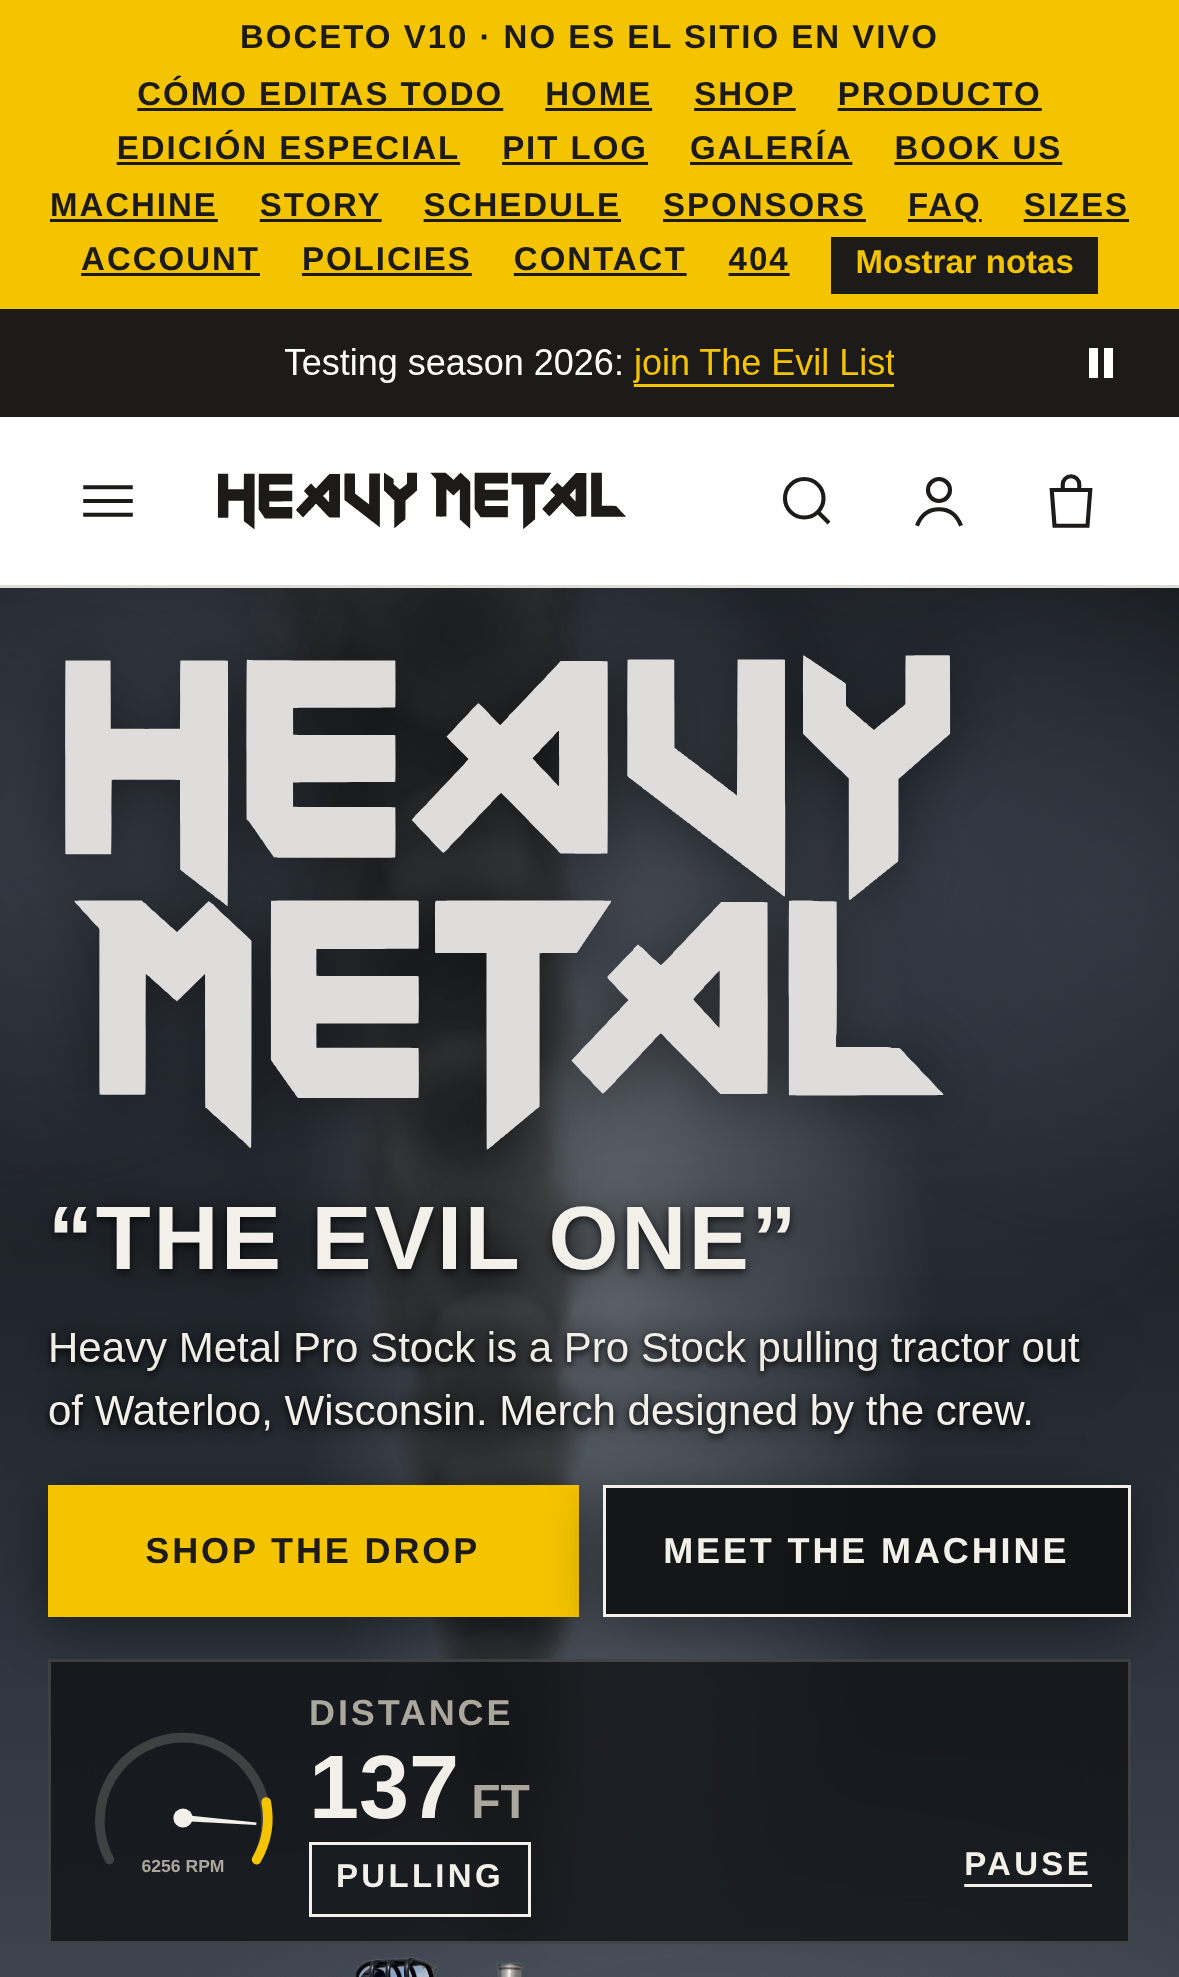
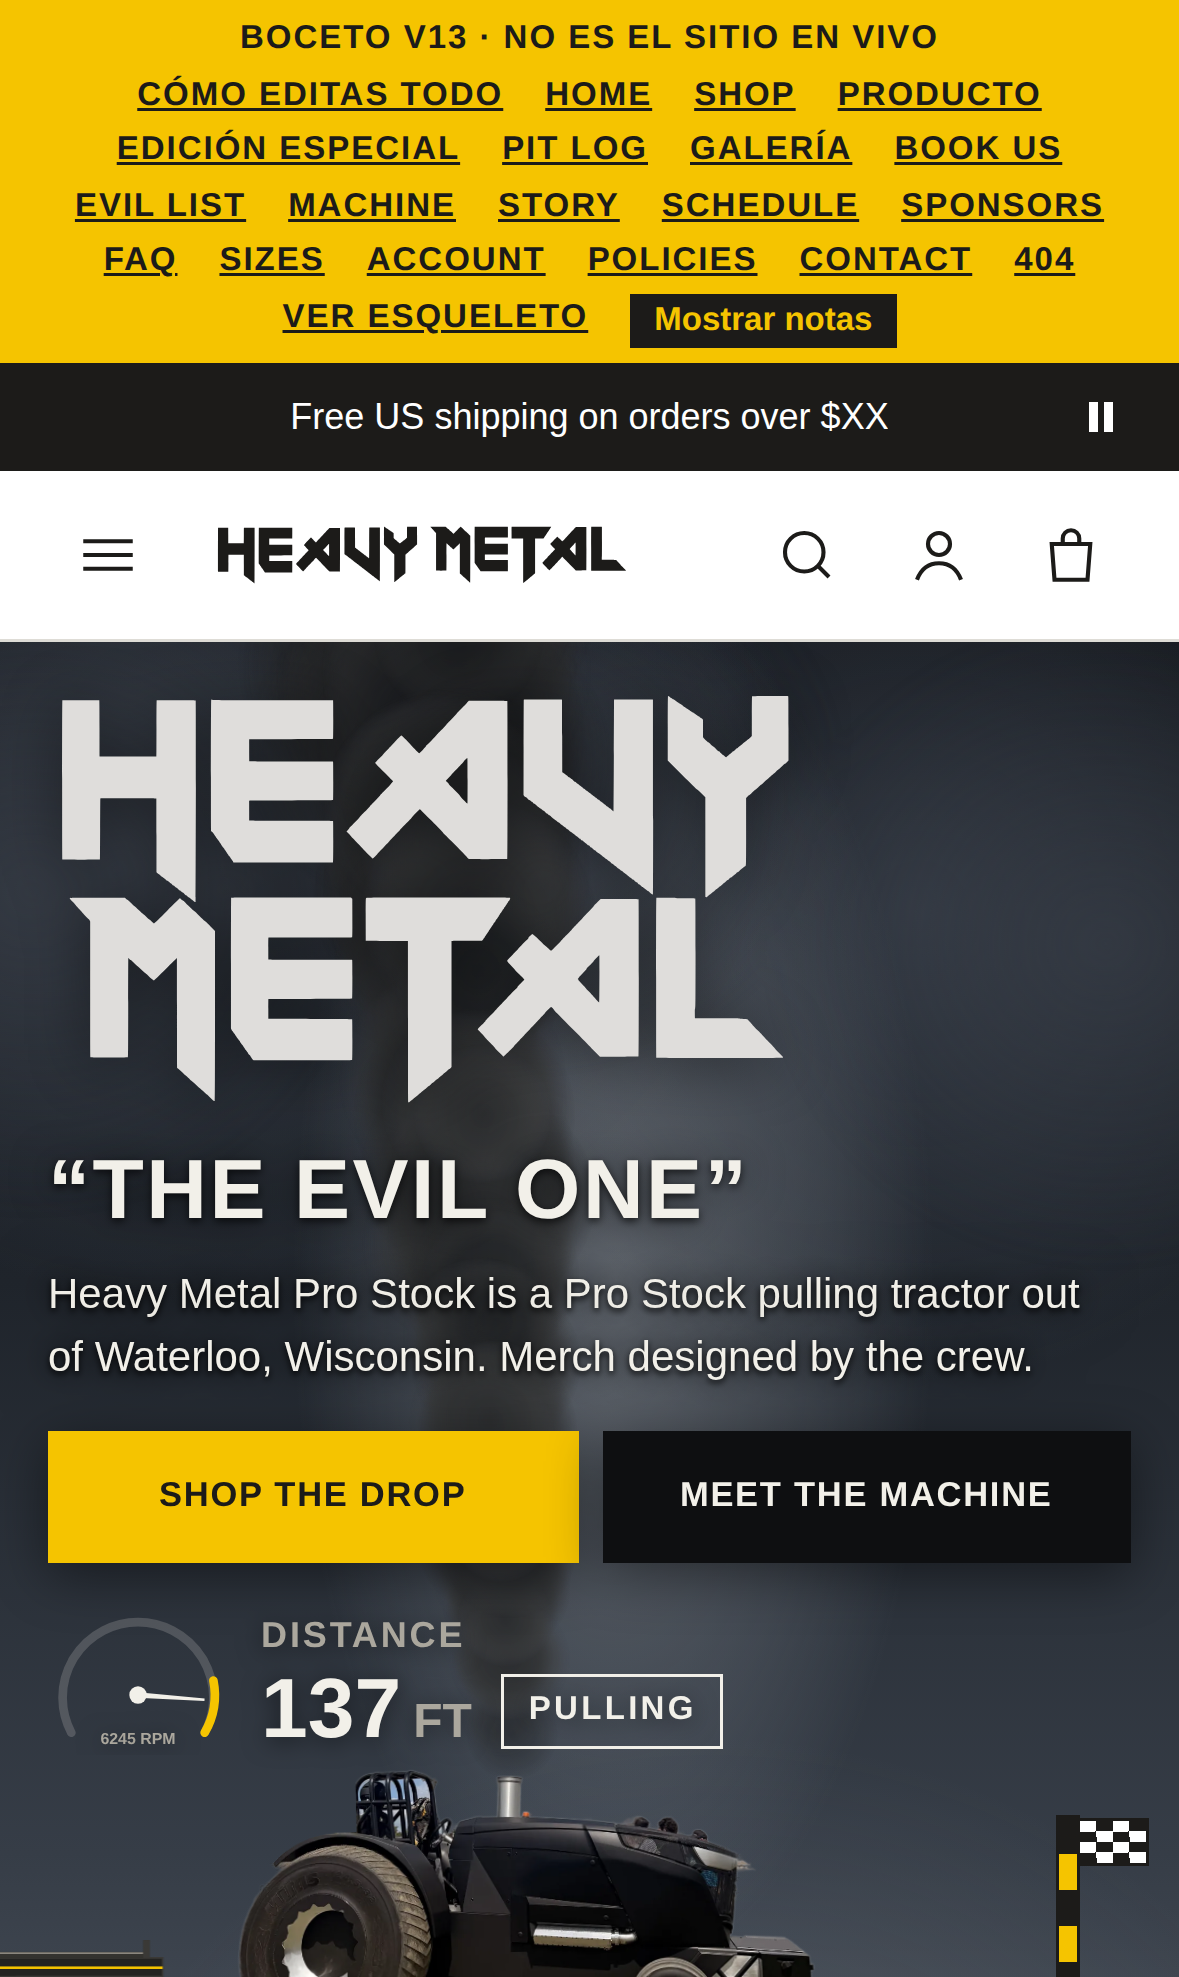
Heavy Metal v13: revisión completa en celular, The Evil List, capturas; publicado
Claude-Session: https://claude.ai/code/session_01E8Lk6WyCwTFU7gWzhEJtm8

diff --git a/heavy-metal/boceto-v13/hm.js b/heavy-metal/boceto-v13/hm.js
@@ -202,7 +202,7 @@
       '</div>' +
       '<div class="scrim" id="scrim" hidden></div>' +
       '<div class="search" id="search" hidden role="dialog" aria-modal="true" aria-label="Search">' +
-        '<div class="wrap"><form class="search__bar" action="search.html" role="search"><span aria-hidden="true">' + I.search + '</span><label class="vh" for="q">Search the store</label><input id="q" name="q" type="search" placeholder="Search tees, hoodies, the machine..." autocomplete="off"><button class="icon-btn" type="button" id="search-close" aria-label="Close search">' + I.close + '</button></form>' +
+        '<div class="wrap"><form class="search__bar" action="search.html" role="search"><span aria-hidden="true">' + I.search + '</span><label class="vh" for="q">Search the store</label><input id="q" name="q" type="search" placeholder="Search tees, hoodies, caps..." autocomplete="off"><button class="icon-btn" type="button" id="search-close" aria-label="Close search">' + I.close + '</button></form>' +
         '<div class="search__body"><div><div id="recent-wrap" hidden><p class="label muted">Your recent searches</p><ul id="recent"></ul></div><p class="label muted" id="sugg-h">Trending</p><ul id="sugg"></ul><p class="label muted" style="margin-top:20px">Pages</p><ul id="search-pages"><li><a href="machine.html">The Machine</a></li><li><a href="schedule.html">Schedule</a></li><li><a href="sponsors.html">Sponsors</a></li><li><a href="faq.html">FAQ</a></li></ul><p class="note">Ya no las escribes tú: "Trending" sale solo de los productos más vendidos, mientras escriben Shopify sugiere búsquedas automáticas (Predictive Search, en inglés) y "recent searches" se guarda en el navegador de cada cliente.</p></div>' +
         '<div><p class="label muted" id="search-h">Best sellers</p><div class="search__res" id="search-res" style="margin-top:12px"></div><p id="search-all" style="margin:16px 0 0" hidden><a class="link" href="search.html">See all results</a></p></div></div></div>' +
       '</div>' +
@@ -431,6 +431,31 @@
   if (sd) sd.addEventListener('click', function (e) { e.preventDefault(); var u = new URL(location.href); if (slow) u.searchParams.delete('loading'); else u.searchParams.set('loading', 'slow'); location.href = u.toString(); });
   if (sd && slow) sd.textContent = 'Quitar esqueleto';
   if (slow) { document.documentElement.classList.add('hm-loading'); setTimeout(function () { document.documentElement.classList.remove('hm-loading'); }, 2500); }
+
+  /* tiras que se deslizan: marca el borde donde queda más contenido (CSS .hm-hs--l / --r lo desvanece).
+     No aplica a carruseles de una foto a la vez (galería de producto) ni a lo marcado con data-no-fade. */
+  function hsUpd(el) {
+    var max = el.scrollWidth - el.clientWidth;
+    el.classList.toggle('hm-hs--l', max > 2 && el.scrollLeft > 4);
+    el.classList.toggle('hm-hs--r', max > 2 && el.scrollLeft < max - 4);
+  }
+  function hsScan(full) {
+    [].forEach.call(document.querySelectorAll('main *, .drawer *'), function (el) {
+      if (el.hmHs === false || (el.hmHs === 0 && full !== true)) return;
+      if (el.hmHs) { hsUpd(el); return; }
+      var ox = getComputedStyle(el).overflowX;
+      if (ox !== 'auto' && ox !== 'scroll') { el.hmHs = 0; return; }
+      var first = el.firstElementChild;
+      if (el.closest('[data-no-fade]') || (first && first.getBoundingClientRect().width >= el.clientWidth * .9)) { el.hmHs = false; return; }
+      el.hmHs = true; hsUpd(el);
+    });
+  }
+  var hsT;
+  function hsLater() { clearTimeout(hsT); hsT = setTimeout(hsScan, 120); }
+  document.addEventListener('scroll', function (e) { var t = e.target; if (t && t.hmHs) hsUpd(t); }, true);
+  window.addEventListener('resize', function () { clearTimeout(hsT); hsT = setTimeout(function () { hsScan(true); }, 150); });
+  window.addEventListener('load', function () { hsScan(); setTimeout(hsScan, 1500); });
+  if ('MutationObserver' in window) new MutationObserver(hsLater).observe(document.body, { childList: true, subtree: true, attributes: true, attributeFilter: ['hidden', 'open'] });
 
   /* banner de cookies: se muestra una vez por visita del boceto */
   var ck = $('cookie');

diff --git a/heavy-metal/boceto-v13/hm.css b/heavy-metal/boceto-v13/hm.css
@@ -392,11 +392,44 @@ img:not(.img-skel){transition:opacity .35s}
   /* insignias de la tarjeta: una debajo de otra, sin partirse en dos renglones */
   .card__badges{flex-direction:column;align-items:flex-start;right:8px}
   .card__badges .badge{white-space:nowrap}
-  /* tiras que se deslizan: se desvanecen a la derecha para que se note que hay más */
-  .cats{-webkit-mask-image:linear-gradient(to right,#000 calc(100% - 40px),transparent);mask-image:linear-gradient(to right,#000 calc(100% - 40px),transparent);padding-right:40px}
 }
 @media (hover:none){
   /* botón de la tarjeta en celular: cabe en un renglón y, si no, se parte limpio */
-  .card__add{min-height:44px;padding:6px 8px;letter-spacing:.04em;line-height:1.2;text-align:center}
-  .card__arw{width:36px;height:44px;top:calc(50% - 22px)}
+  .card__add{display:flex;min-height:44px;padding:6px 8px;letter-spacing:.04em;line-height:1.2;text-align:center}
+  .card__arw{width:36px;height:44px;top:calc(62.5cqw - 22px)}
+  /* el botón queda debajo de la foto: puntos y flechas se miden sobre la foto (4:5), no sobre foto + botón */
+  .card__media{container-type:inline-size}
+  .card__dots{bottom:auto;top:calc(125cqw - 14px)}
 }
+@media (max-width:760px){.cookie .btn{min-height:44px}}
+/* iPhone SE y teléfonos de 320 a 380px: el carrito ya no se sale del header */
+.hdr__in .icon-btn{flex:none}
+@media (max-width:380px){
+  .hdr__in{gap:8px}
+  .hdr__logo img{height:16px}
+  .hdr__icons{gap:0}
+}
+@media (max-width:860px){
+  /* footer: links con área táctil de 44px */
+  .ftr__list a{line-height:44px}
+  .ftr__legal{gap:0 18px}
+  .ftr__legal a{padding-block:10px}
+  .ftr__social{gap:8px}
+  .ftr__social a{width:44px;height:44px}
+}
+/* tiras que se deslizan (chips, tarjetas, tablas): hm.js les pone hm-hs--l / hm-hs--r y se desvanecen en el borde
+   donde queda más contenido, para que en el celular se note que se pueden deslizar */
+.hm-hs--r{-webkit-mask-image:linear-gradient(to right,#000 calc(100% - 36px),transparent);mask-image:linear-gradient(to right,#000 calc(100% - 36px),transparent)}
+.hm-hs--l{-webkit-mask-image:linear-gradient(to left,#000 calc(100% - 36px),transparent);mask-image:linear-gradient(to left,#000 calc(100% - 36px),transparent)}
+.hm-hs--l.hm-hs--r{-webkit-mask-image:linear-gradient(to right,transparent,#000 36px,#000 calc(100% - 36px),transparent);mask-image:linear-gradient(to right,transparent,#000 36px,#000 calc(100% - 36px),transparent)}
+/* pantallas bajitas (iPhone SE): el pie del carrito ocupa menos para que se vean los productos */
+@media (max-height:700px) and (max-width:760px){
+  .drawer__foot{padding:10px 20px;gap:8px}
+  .drawer__foot>p.small{display:none}
+  .tiers{padding-block:8px}
+}
+/* celular: links de texto sueltos (SEE THE PIT LOG, Size guide...) con área táctil más alta sin mover el diseño */
+@media (hover:none){
+  a.link,button.link{padding-block:12px;margin-block:-12px}
+}
+@media (hover:none) and (max-width:380px){.card__add{font-size:10px;letter-spacing:.02em;padding-inline:4px}}

diff --git a/heavy-metal/boceto-v13/gallery.html b/heavy-metal/boceto-v13/gallery.html
@@ -98,7 +98,7 @@ html,body{overflow-x:clip}
 .g-t:hover .g-cap,.g-t:focus-visible .g-cap{opacity:1;transform:none}
 .g-cap b{font-family:var(--f-head);font-stretch:78%;font-size:var(--t-sm);text-transform:uppercase;letter-spacing:.03em;line-height:1.2}
 .g-cap span{font-size:11px;font-weight:600;letter-spacing:.06em;text-transform:uppercase;color:#CFCCC3}
-@media (hover:none){.g-cap{opacity:1;transform:none;padding:28px 10px 8px}.g-cap b{font-size:12px}.g-cap span{font-size:10px}}
+@media (hover:none){.g-cap{opacity:1;transform:none;padding:32px 10px 8px;background:linear-gradient(180deg,rgba(18,18,17,0),rgba(18,18,17,.62) 45%,rgba(18,18,17,.9));text-shadow:0 1px 2px rgba(0,0,0,.5)}.g-cap b{font-size:12px}.g-cap span{font-size:10px}}
 .g-zoom{position:absolute;right:10px;top:10px;z-index:2;width:30px;height:30px;border-radius:50%;background:rgba(18,18,17,.55);display:grid;place-items:center;opacity:0;transition:opacity .2s}
 .g-zoom svg{width:14px;height:14px;fill:none;stroke:var(--night-ink);stroke-width:2}
 .g-t:hover .g-zoom{opacity:1}
@@ -241,7 +241,7 @@ html,body{overflow-x:clip}
           <div class="g-find">
             <label class="vh" for="g-find" id="g-find-l">Find an event (searches every season)</label>
             <svg class="ic" viewBox="0 0 24 24" aria-hidden="true"><circle cx="11" cy="11" r="7"/><path d="M20 20l-4-4"/></svg>
-            <input class="input" id="g-find" type="search" placeholder="Find an event, town or year" autocomplete="off" spellcheck="false"
+            <input class="input" id="g-find" type="search" placeholder="Event, town or year" autocomplete="off" spellcheck="false"
               role="combobox" aria-autocomplete="list" aria-expanded="false" aria-controls="g-opts" aria-describedby="g-find-hint">
             <span class="vh" id="g-find-hint">Type to filter, use the up and down arrows to choose, Enter to open the event.</span>
             <ul class="g-opts" id="g-opts" role="listbox" aria-labelledby="g-find-l" hidden></ul>

diff --git a/heavy-metal/boceto-v13/product.html b/heavy-metal/boceto-v13/product.html
@@ -82,6 +82,8 @@ html,body{overflow-x:clip}
 .lb__arw:hover{background:rgba(255,255,255,.22);border-color:var(--night-ink)}
 .lb__arw--prev{left:12px}.lb__arw--next{right:12px}
 .lb__hint{position:absolute;left:0;right:0;bottom:calc(16px + env(safe-area-inset-bottom,0px));margin:0;text-align:center;font-size:11px;color:#B5B2AA}
+.lb__hint-t{display:none}
+@media (hover:none){.lb__hint-k{display:none}.lb__hint-t{display:inline}.lb__arw{background:rgba(18,18,17,.62);border-color:rgba(255,255,255,.35)}}
 
 /* buy box */
 .buy{display:grid;gap:16px;align-content:start;min-width:0}
@@ -562,7 +564,7 @@ html,body{overflow-x:clip}
   <figure class="lb__fig"><div class="lb__img" id="lb-img"></div></figure>
   <button class="lb__arw lb__arw--prev" type="button" id="lb-prev" aria-label="Previous image">‹</button>
   <button class="lb__arw lb__arw--next" type="button" id="lb-next" aria-label="Next image">›</button>
-  <p class="lb__hint">Click or tap the image to zoom · arrow keys to browse · Esc to close</p>
+  <p class="lb__hint"><span class="lb__hint-k">Click or tap the image to zoom · arrow keys to browse · Esc to close</span><span class="lb__hint-t">Tap the image to zoom · swipe to browse</span></p>
 </dialog>
 
 <dialog class="rvlb" id="rvlb" aria-labelledby="rvlb-t">

diff --git a/heavy-metal/boceto-v13/sizes.html b/heavy-metal/boceto-v13/sizes.html
@@ -55,6 +55,7 @@ html,body{overflow-x:clip}
 .tbl tbody th{font-weight:700;color:var(--ink)}
 .tbl td{color:var(--soft)}
 .tbl .u{font-weight:400;text-transform:none;letter-spacing:0}
+@media (max-width:560px){.tbl thead th{white-space:normal;vertical-align:bottom;letter-spacing:.04em}.tbl th,.tbl td{padding-right:8px}}
 .fig{margin:0;background:var(--surface);border:1px solid var(--line);padding:12px}
 .fig svg{width:100%;height:auto;display:block}
 .fig figcaption{font-size:11px;color:var(--mute);margin-top:6px}
@@ -78,7 +79,7 @@ html,body{overflow-x:clip}
   .sz-nav ul{display:flex;gap:8px;overflow-x:auto;scrollbar-width:none;padding:10px var(--gutter)}
   .sz-nav ul::-webkit-scrollbar{display:none}
   .sz-nav li{flex:none}
-  .sz-nav a{font-size:var(--t-xs);line-height:1;padding:9px 12px;border:1px solid var(--line);background:var(--surface)}
+  .sz-nav a{font-size:var(--t-xs);line-height:1;padding:15px 12px;border:1px solid var(--line);background:var(--surface)}
   .sz-nav a[aria-current="page"]{border-color:var(--ink)}
 }
 </style>

diff --git a/heavy-metal/boceto-v13/editar.html b/heavy-metal/boceto-v13/editar.html
@@ -88,7 +88,9 @@ section[id]{scroll-margin-top:calc(var(--header) + 12px)}
 .map{display:grid;grid-template-columns:repeat(2,minmax(0,1fr));gap:12px;list-style:none;margin:0;padding:0}
 @media (min-width:1600px){.map{grid-template-columns:repeat(3,minmax(0,1fr))}}
 @media (max-width:860px){.map{grid-template-columns:minmax(0,1fr)}}
-.ec{background:var(--surface);border:1px solid var(--line);display:grid;align-content:start}
+.ec{background:var(--surface);border:1px solid var(--line);display:grid;grid-template-columns:minmax(0,1fr);align-content:start;min-width:0}
+.ec__head .h3{min-width:0}
+@media (max-width:600px){.path span{white-space:normal}}
 .ec__head{display:flex;justify-content:space-between;align-items:start;gap:10px;padding:14px 16px 10px}
 .ec__head .h3{font-size:var(--t-md)}
 .tag{flex:none;font-size:10px;font-weight:700;letter-spacing:.08em;text-transform:uppercase;padding:2px 6px;border:1px solid var(--line);color:var(--soft);white-space:nowrap}

diff --git a/heavy-metal/boceto-v13/shop.html b/heavy-metal/boceto-v13/shop.html
@@ -83,7 +83,7 @@ html,body{overflow-x:clip}
 .plp-color input:checked+span{font-weight:700}
 .plp-color input:disabled+span{color:var(--mute);cursor:not-allowed}
 .plp-drawer__foot{display:grid;grid-template-columns:minmax(0,1fr) minmax(0,2fr);gap:8px;padding:12px 20px;border-top:1px solid var(--line)}
-.plp-drawer__foot .btn{min-height:52px}
+.plp-drawer__foot .btn{min-height:52px;padding-inline:12px;white-space:nowrap}
 @media (prefers-reduced-motion:reduce){.plp-acc__btn svg{transition:none}}
 .plp-ltd{display:grid;grid-template-columns:auto minmax(0,1fr) auto;gap:6px 16px;align-items:center;padding:14px 16px;margin-bottom:16px;background:var(--surface);border:1px solid var(--line);border-left:3px solid var(--accent);text-decoration:none;color:var(--ink);font-size:var(--t-sm)}
 .plp-ltd b{display:block;text-transform:uppercase;letter-spacing:.04em;font-size:var(--t-xs)}

diff --git a/heavy-metal/boceto-v13/sponsors.html b/heavy-metal/boceto-v13/sponsors.html
@@ -78,6 +78,7 @@
 @media (max-width:1024px){.sp-top__in{grid-template-columns:minmax(0,1fr)}.sp-photo{aspect-ratio:16/7;min-height:0}}
 @media (min-width:861px) and (max-width:1024px){.sp-photo{display:none}}
 @media (max-width:860px){.sp-tiers{grid-template-columns:none;grid-auto-flow:column;grid-auto-columns:minmax(260px,84%);overflow-x:auto;scroll-snap-type:x mandatory;padding-bottom:6px;scrollbar-width:thin}.sp-tier{scroll-snap-align:start}.sp-hint{display:block}}
+@media (max-width:480px){.sp-tiers{grid-auto-columns:82%}}
 @media (max-width:480px){.sp-photo{aspect-ratio:16/6}}
 .sp-hint{display:none;margin:0;font-size:var(--t-xs);color:var(--mute)}
 .sp-foot{display:flex;flex-wrap:wrap;justify-content:space-between;align-items:baseline;gap:4px 16px;margin-top:8px}

diff --git a/heavy-metal/boceto-v13/404.html b/heavy-metal/boceto-v13/404.html
@@ -137,7 +137,7 @@ html,body{overflow-x:clip}
         <p class="nf__lede"><b>This pull ended early.</b> The page you want isn't on the track: it moved, or it never made the run.</p>
         <form class="nf__form" action="search.html" method="get" role="search">
           <label class="vh" for="nf-q">Search the site</label>
-          <input class="input" id="nf-q" name="q" type="search" placeholder="Search tees, hoodies, the next pull..." autocomplete="off" enterkeyhint="search">
+          <input class="input" id="nf-q" name="q" type="search" placeholder="Search tees, hoodies..." autocomplete="off" enterkeyhint="search">
           <button class="btn" type="submit">Search</button>
         </form>
       </div>

diff --git a/heavy-metal/boceto-v13/search.html b/heavy-metal/boceto-v13/search.html
@@ -45,7 +45,7 @@ mark{background:var(--accent);color:var(--ink);padding:0 1px}
       <h1 class="h1" id="srp-title">Search</h1>
       <form class="srp-form" action="search.html" method="get" role="search">
         <label class="vh" for="srp-q">Search the store</label>
-        <input class="input" id="srp-q" name="q" type="search" placeholder="Search tees, hoodies, the machine..." autocomplete="off" enterkeyhint="search">
+        <input class="input" id="srp-q" name="q" type="search" placeholder="Search the store" autocomplete="off" enterkeyhint="search">
         <button class="btn" type="submit">Search</button>
       </form>
       <p class="srp-count num" id="srp-count" role="status"></p>

diff --git a/heavy-metal/boceto-v13/faq.html b/heavy-metal/boceto-v13/faq.html
@@ -68,7 +68,7 @@ mark{background:#FFF0A8;color:inherit;padding:0}
   .hc-nav ul{display:flex;gap:8px;overflow-x:auto;scrollbar-width:none;padding:10px var(--gutter)}
   .hc-nav ul::-webkit-scrollbar{display:none}
   .hc-nav li{flex:none}
-  .hc-nav a{font-size:var(--t-xs);line-height:1;padding:9px 12px;border:1px solid var(--line);background:var(--surface)}
+  .hc-nav a{font-size:var(--t-xs);line-height:1;padding:15px 12px;border:1px solid var(--line);background:var(--surface)}
   .hc-nav a[aria-current="true"]{border-color:var(--ink)}
   .hc-cat{scroll-margin-top:calc(var(--header) + 72px)}
   .qa .a{padding-right:0}

diff --git a/heavy-metal/boceto-v13/account.html b/heavy-metal/boceto-v13/account.html
@@ -26,6 +26,7 @@ html,body{overflow-x:clip}
 .seg label:has(input:focus-visible){outline:2px solid var(--ink);outline-offset:2px}
 .seg-wrap{display:grid;gap:4px;justify-items:start}
 .seg-wrap .small{color:var(--mute)}
+@media (max-width:560px){.seg-wrap{justify-items:stretch}.seg{display:grid;grid-template-columns:repeat(3,minmax(0,1fr))}.seg label{justify-content:center;text-align:center;white-space:normal;min-height:44px;padding:4px 6px;line-height:1.2;font-size:11px;letter-spacing:.04em}}
 
 .acc{padding-block:32px var(--sect)}
 /* sesión cerrada */
